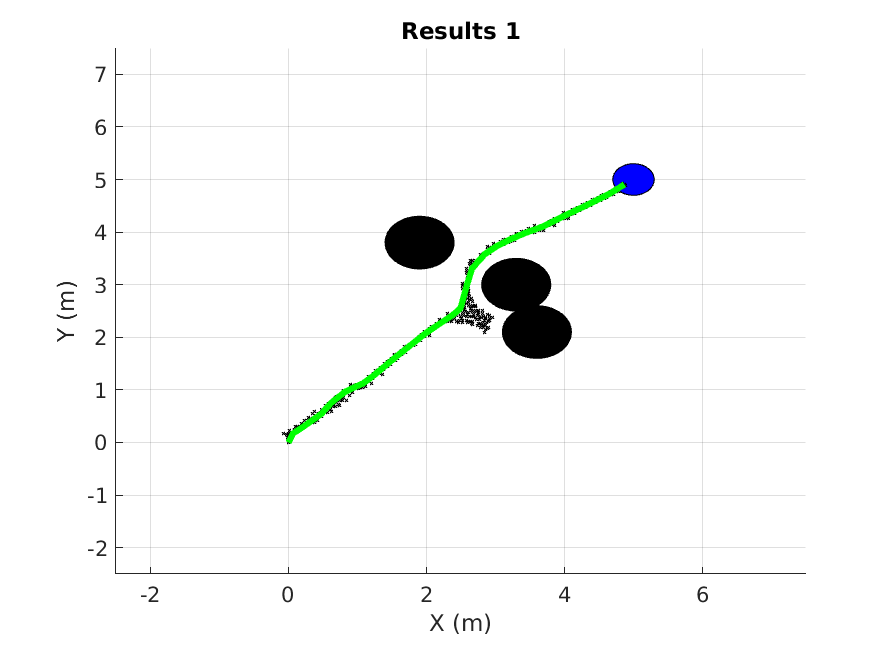
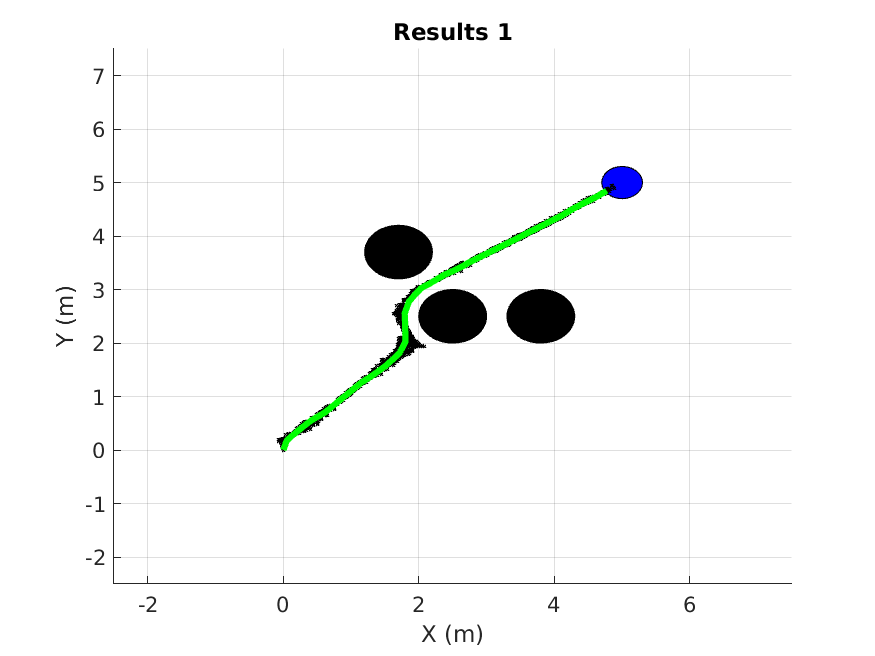
Benchmark results

diff --git a/sbmpo_models/src/book_model_node.cpp b/sbmpo_models/src/book_model_node.cpp
@@ -5,7 +5,7 @@
 #include <ctime>
 
 #define VERBOSE true
-#define RUNS 5
+#define RUNS 10
 
 void print_parameters(const sbmpo::Parameters &params);
 
@@ -34,14 +34,13 @@ int main (int argc, char ** argv) {
 
         if (VERBOSE) print_parameters(*param);
 
+        sbmpo::SBMPO planner;
+        std::vector<std::array<float, 3>> obstacles;
+        int exit_code;
+        double time_ms = 0.0f;
         for (int r = 0; r < RUNS; r++) {
 
-            sbmpo::SBMPO planner;
-            int exit_code;
-
-            std::vector<std::array<float, 3>> obstacles = book_model.randomize_obstacles(3, 1.0, 4.0);
-            sbmpo_models::addToData(obstacles_file, obstacles);
-            print_obstacles(obstacles);
+            obstacles = book_model.randomize_obstacles(3, 1.0, 4.0);
 
             clock_t cstart = std::clock();
 
@@ -49,15 +48,21 @@ int main (int argc, char ** argv) {
 
             clock_t cend = std::clock();
 
-            float time_ms = (cend - cstart) / double(CLOCKS_PER_SEC) * 1000;
-
-            if (VERBOSE) print_results(planner, time_ms, exit_code);
-
-            if (VERBOSE) ROS_INFO("Writing results to file %s ...", result_datafile.c_str());
-
-            sbmpo_models::addToData(result_datafile, planner, time_ms, exit_code);
+            time_ms += double(cend - cstart) / double(CLOCKS_PER_SEC * RUNS) * 1000.0;
 
         }
+
+        sbmpo_models::addToData(obstacles_file, obstacles);
+        if (VERBOSE) print_obstacles(obstacles);
+
+        if (VERBOSE) print_results(planner, time_ms, exit_code);
+
+        if (VERBOSE) ROS_INFO("Writing results to file %s ...", result_datafile.c_str());
+
+        sbmpo_models::addToData(result_datafile, planner, time_ms, exit_code, 
+            sbmpo_models::SaveOptions::STATS |
+            sbmpo_models::SaveOptions::PATH
+        );
 
     }
 

diff --git a/sbmpo_models/matlab/BookModelConfig_BM1.m b/sbmpo_models/matlab/BookModelConfig_BM1.m
@@ -9,8 +9,8 @@ clc
 % Set total number of runs
 runs = 12;
 
-MaxIterations = 10000;
-MaxGenerations = 100;
+MaxIterations = 30000;
+MaxGenerations = 150;
 SampleHorizonTime = 0.3;
 SampleHorizonTimeIncrement = 0.1;
 GoalThreshold = 0.3;
@@ -22,7 +22,7 @@ InitialState = [0, 0, 1.5707];
 GoalState = [5, 5, 0];
 InitialControl = [0, 0];
 GridActiveStates = [1, 1, 0];
-GridResolution = [0.01, 0.01];
+GridResolution = [0.025, 0.025];
 
 RotationControls = {
         [0 -0.785398 0.785398 -0.589049 0.589049 -0.392699 0.392699 -0.196350 0.196350];
@@ -57,6 +57,7 @@ LinearControls = {
 V = @(arr,r) arr(ceil(r * size(arr,1) / runs),:);
 
 Configuration = cell(runs,1);
+NumberOfSamples = zeros(1,runs);
 for r = 1:runs
 
     LinearControl = cell2mat(V(LinearControls, r));
@@ -64,8 +65,8 @@ for r = 1:runs
     
     SizeLinear = length(LinearControl);
     SizeRotation = length(RotationControl);
-    NumberOfSamples = SizeRotation * SizeLinear;
-    Samples = zeros(1, NumberOfSamples*V(NumberOfControls,r));
+    NumberOfSamples(r) = SizeRotation * SizeLinear;
+    Samples = zeros(1, NumberOfSamples(r)*V(NumberOfControls,r));
 
     for v = 1:SizeLinear
         for u = 1:SizeRotation
@@ -79,7 +80,7 @@ for r = 1:runs
             V(NumberOfStates,r) V(NumberOfControls,r) V(NumberOfGriddedStates,r) ...
             V(InitialState,r) V(GoalState,r) V(InitialControl,r) ...
             V(GridActiveStates,r) V(GridResolution,r)...
-            NumberOfSamples Samples]};
+            NumberOfSamples(r) Samples]};
 
 end
     

diff --git a/sbmpo_models/matlab/BookModelResults_BM1.m b/sbmpo_models/matlab/BookModelResults_BM1.m
@@ -1,0 +1,31 @@
+%% Book Model Results - Samples Benchmark
+close all
+
+plans = sbmpo_results("../results/book_model_results.csv");
+obstacles_csv = readmatrix("../results/obstacles.csv");
+
+size = length(plans);
+
+num_samples = zeros(1, size);
+time_ms = zeros(1, size);
+num_nodes = zeros(1, size);
+cost = zeros(1, size);
+
+for p = 1:size
+    
+    plan = plans(p);
+
+    num_samples(p) = NumberOfSamples(p);
+    time_ms(p) = plan.time_ms;
+    num_nodes(p) = plan.buffer_size;
+    cost(p) = plan.nodes(plan.path(end)).g;
+
+end
+
+figure
+hold on
+grid on
+plot(num_samples,time_ms)
+plot(num_samples,num_nodes)
+title("Number of Nodes vs. Number of Samples")
+

diff --git a/sbmpo_models/include/sbmpo_models/csv_util.hpp b/sbmpo_models/include/sbmpo_models/csv_util.hpp
@@ -131,7 +131,8 @@ namespace sbmpo_models {
 
         for (int b = 0; b < results.size(); b++) {
 
-            if (!(options & BUFFER) && (options & PATH) && !std::count(results.path().begin(), results.path().end(), b))
+            std::vector<int> path = results.path();
+            if (!(options & BUFFER) && (options & PATH) && !std::count(path.begin(), path.end(), b))
                 continue;
 
             const sbmpo::Vertex& vertex = results.graph[b];
